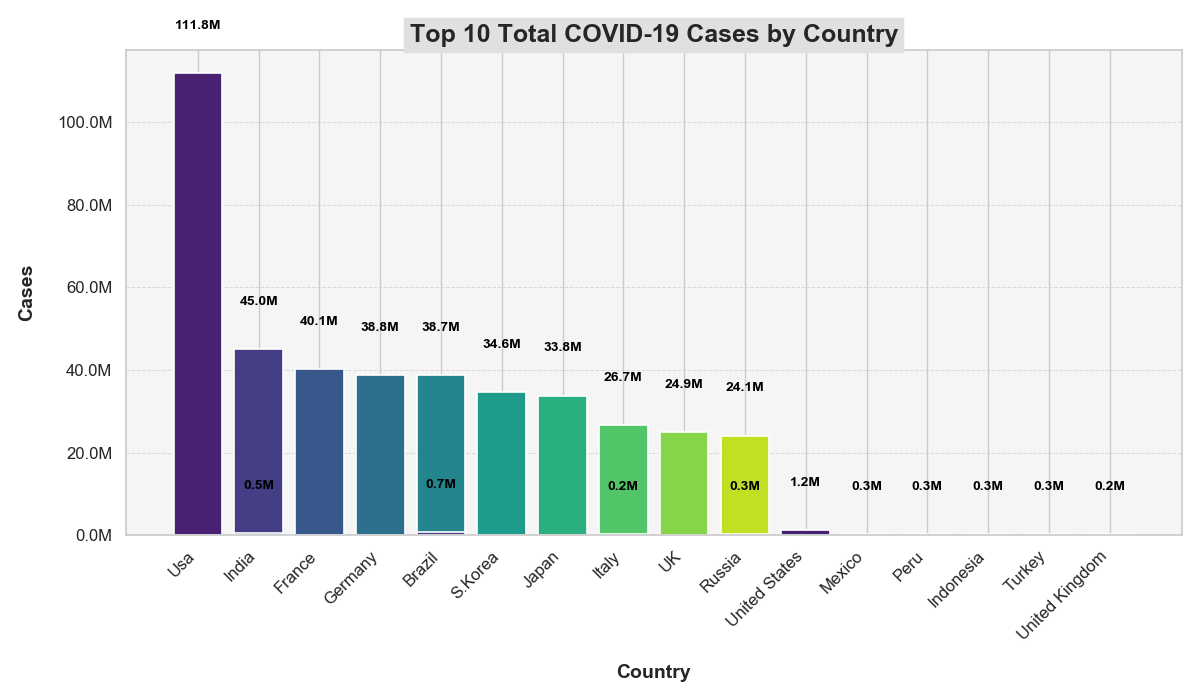
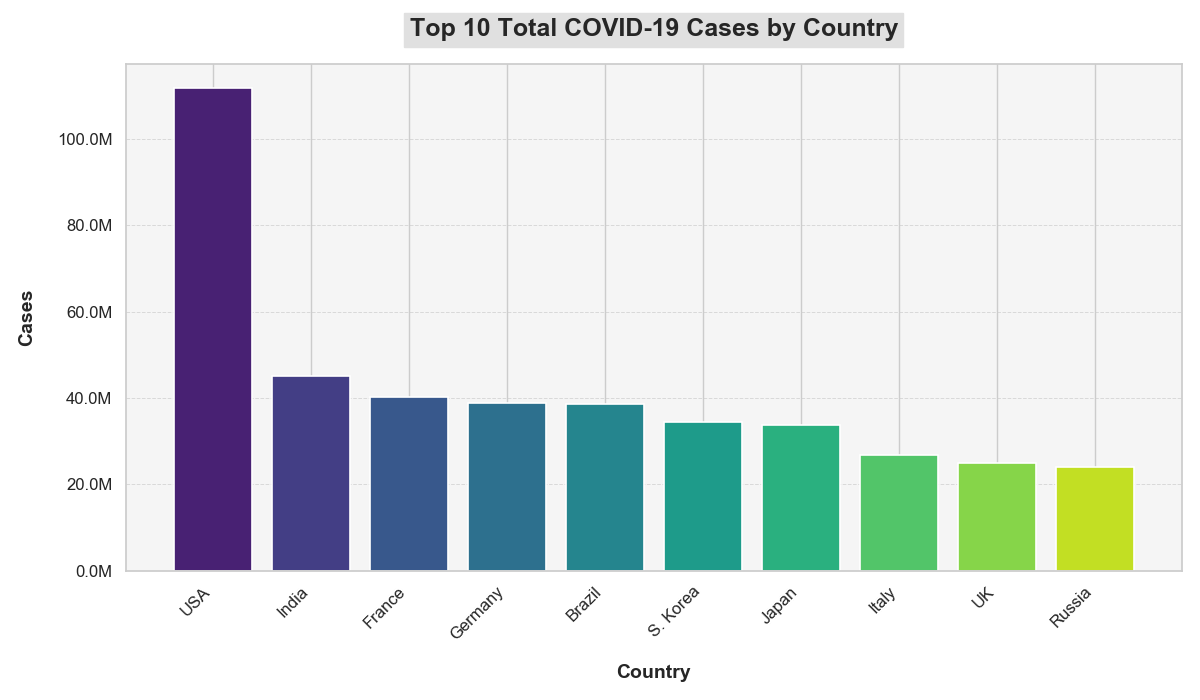
COMMIT

diff --git a/main.py b/main.py
@@ -29,12 +29,32 @@ fig, ax = plt.subplots(figsize=(12, 7))  # Adjust figure size for better readabi
 # Create a bar plot with improved style
 bars = ax.bar(categories, values, color=sns.color_palette("viridis", len(categories)), edgecolor='w', linewidth=1.2)
 
-# Add value labels on top of bars
-for bar in bars:
-    yval = bar.get_height()
-    ax.text(bar.get_x() + bar.get_width()/2, yval + 1e6, f'{yval * 1e-6:.1f}M', ha='center', va='bottom', fontsize=10, color='black', weight='bold')
-
 def millions_formatter(x, pos):
     """Formatter function to display y-axis values in millions."""
-    return f'{x * 1e-6:.1f}
+    return f'{x * 1e-6:.1f}M'
+
+# Apply the custom formatter to the y-axis
+ax.yaxis.set_major_formatter(FuncFormatter(millions_formatter))
+
+# Customization
+plt.title("Top 10 Total COVID-19 Cases by Country", fontsize=18, fontweight='bold', pad=20, backgroundcolor='#e0e0e0')
+plt.xlabel("Country", fontsize=14, fontweight='bold', labelpad=15)
+plt.ylabel("Cases", fontsize=14, fontweight='bold', labelpad=15)
+plt.xticks(rotation=45, ha='right', fontsize=12)
+plt.yticks(fontsize=12)
+
+# Add gridlines for y-axis for better readability
+ax.yaxis.grid(True, linestyle='--', alpha=0.7, linewidth=0.7)
+
+# Add a background color
+ax.set_facecolor('#f5f5f5')
+
+# Improve layout
+plt.tight_layout()
+
+# Save the plot to a PNG file
+plt.savefig('plot_styled_updated.png')
+
+# Display the plot
+plt.show()
 
